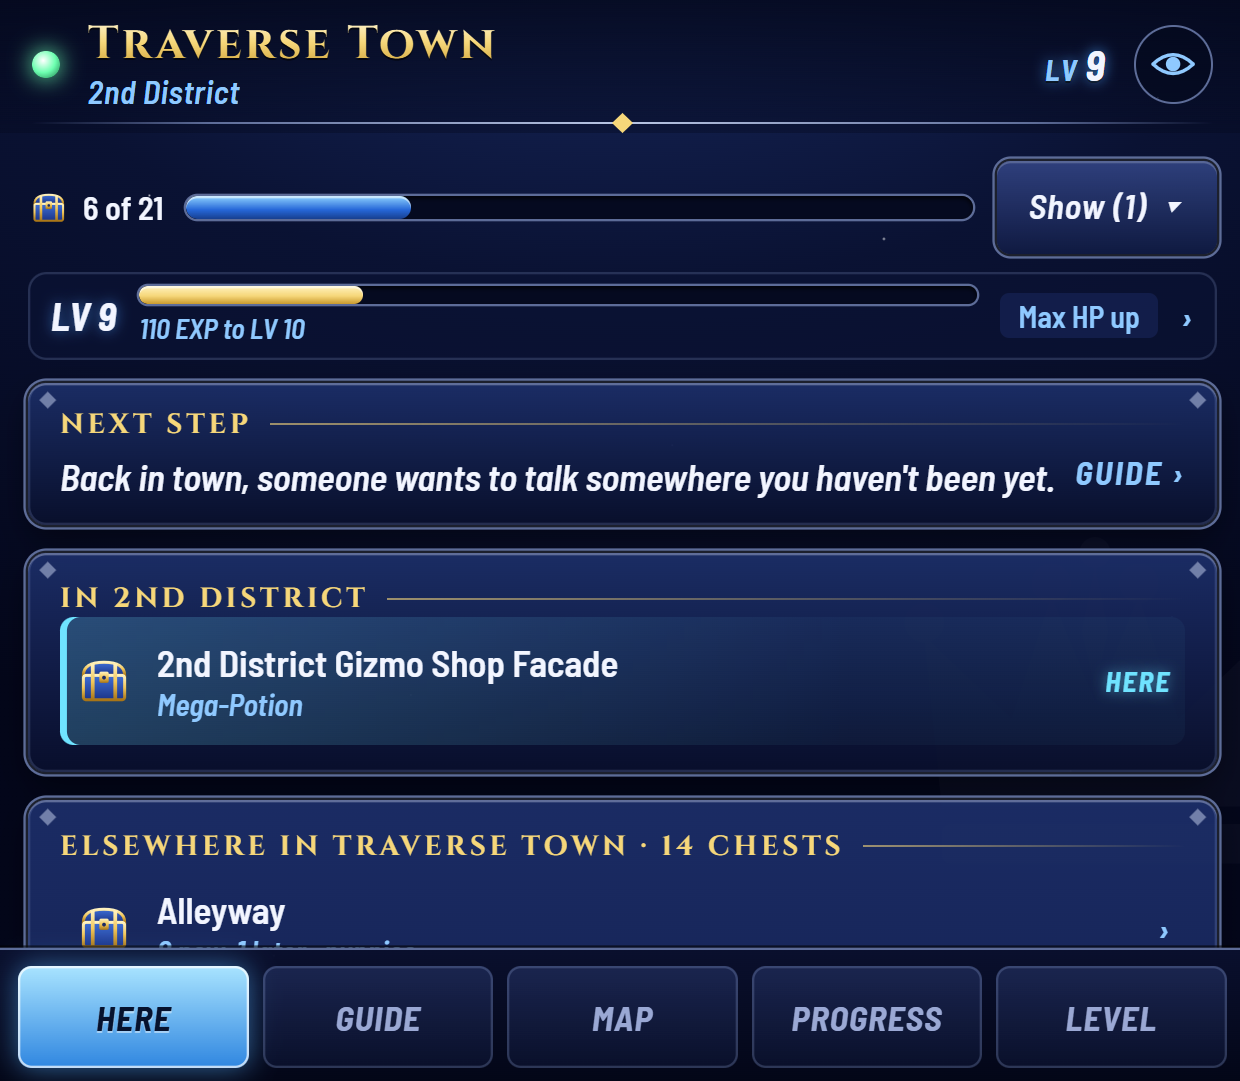
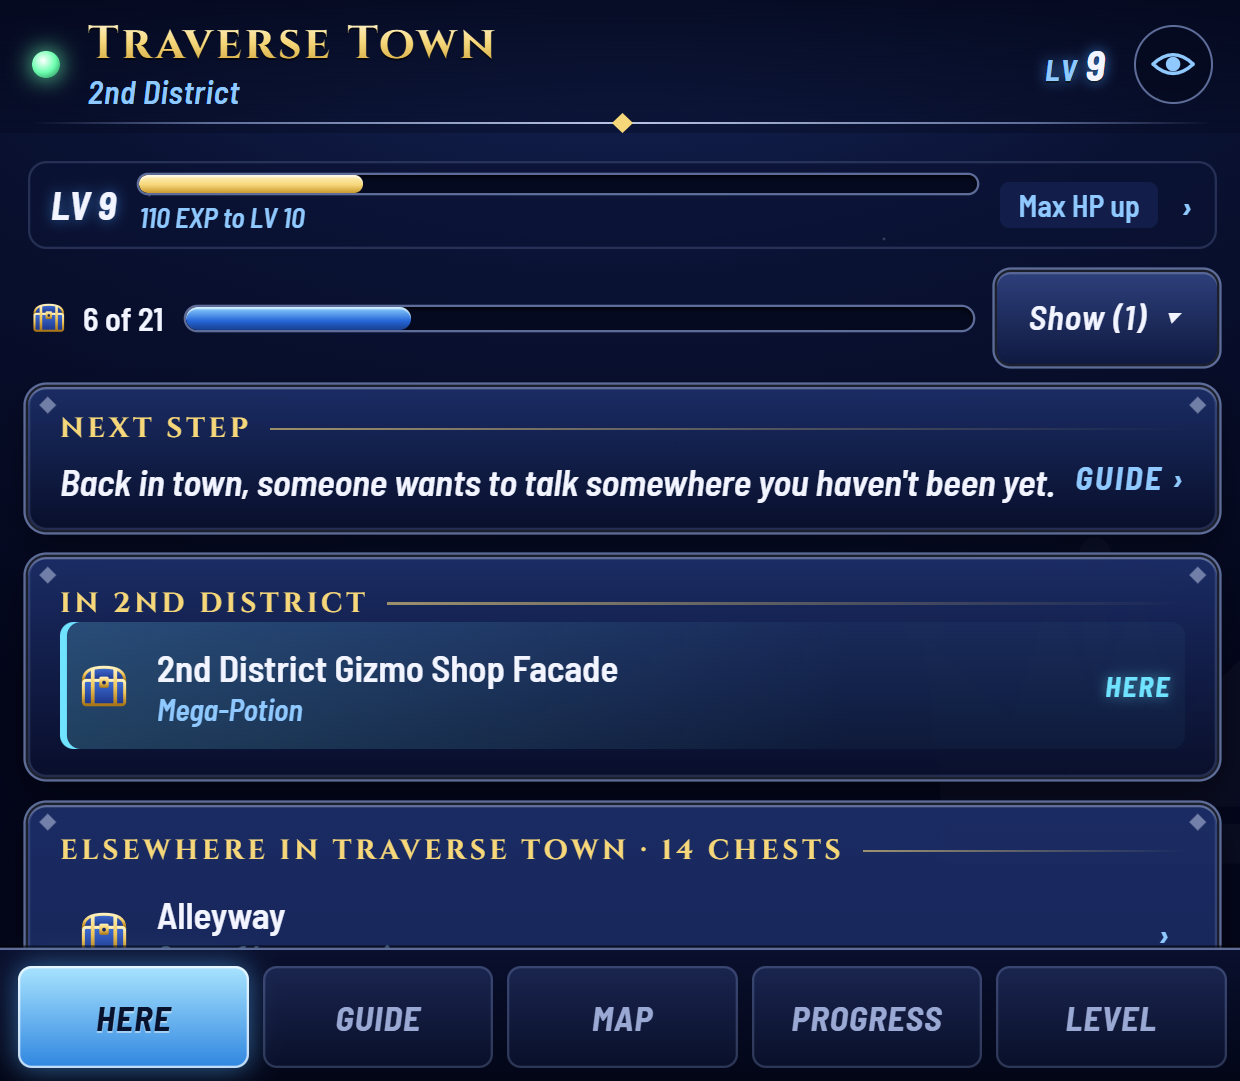
EXP bar first on Here; exact numbers only once the growth curve is certain
The curve has no save byte (the Dive answers set it), so the page now
remembers which curves every EXP reading in this playthrough still fits
and narrows them for good (EXP never drops; lower EXP means a new game).
Until one curve is left, the strip shows the level and next reward with
no EXP numbers instead of a range.

Changed region(s): [[0.0, 0.1221, 1.0, 0.7937], [0.0613, 0.8242, 0.2452, 0.8853], [0.8887, 0.6105, 0.95, 0.6411]]

diff --git a/companion/app.js b/companion/app.js
@@ -210,9 +210,9 @@
     const elsewhere = chests.filter((c) => !c.got && (!n || c.node !== n.id));
     const reportsLeft = sum.reports.filter((r) => r.w === world && !r.got);
     el.innerHTML =
+      expStrip() +
       `<div class="row here-top"><span class="map-count">${icon("ico-chest", "")}<b>${got} of ${total}</b></span>` +
       `<div class="bar grow ${got === total && total ? "done" : ""}"><i style="width:${total ? got / total * 100 : 0}%"></i></div>${toggles()}</div>` +
-      expStrip() +
       (next ? `<div class="card next-mini" id="toGuide"><div class="label">Next step${next.optional ? " · optional" : ""}</div>` +
         `<div class="row"><div class="step-nudge grow">${esc(stepFull(next.key) ? next.title : next.nudge)}</div><span class="tag more">Guide ›</span></div></div>` : "") +
       (n ? `<div class="card"><div class="label">In ${esc(sum.room || L.labelOf(n))}</div>` +
@@ -229,21 +229,18 @@
   }
 
   // The game shows no EXP bar outside the Status menu: level, EXP to the next one, and what it gives.
-  // Early on the growth curve can still be one of several; then the EXP left is a range.
+  // EXP needed depends on the growth curve, which only EXP itself reveals; until it's certain, no numbers.
   function expStrip() {
     const info = L.levelInfo(state, levelPick);
-    if (!info || info.exp == null || info.level >= 100) return "";
-    const curves = info.curve ? [info.curve] : info.curves;
+    if (!info || info.level >= 100) return "";
     const next = info.level + 1;
-    const left = curves.map((c) => info.cum[c][next] - info.exp);
-    const pct = curves.reduce((s, c) => {
-      const lo = info.cum[c][info.level], hi = info.cum[c][next];
-      return s + (hi > lo ? (info.exp - lo) / (hi - lo) : 0);
-    }, 0) / curves.length;
-    const lo = Math.min(...left), hi = Math.max(...left);
+    const known = info.curve && info.exp != null;
+    const lo = known ? info.cum[info.curve][info.level] : 0, hi = known ? info.cum[info.curve][next] : 0;
+    const pct = known && hi > lo ? Math.max(0, Math.min(100, (info.exp - lo) / (hi - lo) * 100)) : 0;
     return `<div class="row here-lv" id="toLevel"><span class="lv-now">LV ${info.level}</span>` +
-      `<div class="grow"><div class="bar exp"><i style="width:${Math.max(0, Math.min(100, pct * 100))}%"></i></div>` +
-      `<div class="sub">${lo === hi ? fmt(lo) : `${fmt(lo)}–${fmt(hi)}`} EXP to LV ${next}</div></div>` +
+      `<div class="grow">${known
+        ? `<div class="bar exp"><i style="width:${pct}%"></i></div><div class="sub">${fmt(hi - info.exp)} EXP to LV ${next}</div>`
+        : `<div class="sub">EXP to LV ${next} shows once your growth is clear, after a few fights.</div>`}</div>` +
       `<span class="rewards">${rewardChips(info, next)}</span><span class="tag more">›</span></div>`;
   }
 
@@ -907,10 +904,12 @@
   }
 
   function rememberSteps() {
-    // The growth curve has no save byte: keep the last one EXP pinned down, for when it's ambiguous again.
+    // The growth curve has no save byte: remember which curves this playthrough's EXP still fits,
+    // so each reading narrows it further (levelInfo drops the memory when EXP goes down: a new game).
     const info = !sum.title && L.levelInfo(state, levelPick);
-    if (info && info.seenCurve && (levelPick.seen !== info.seenCurve || levelPick.seenExp !== info.exp)) {
-      levelPick = { ...levelPick, seen: info.seenCurve, seenExp: info.exp };
+    if (info && info.exp != null && (String(levelPick.fits) !== String(info.curves) || levelPick.fitsExp !== info.exp)) {
+      const { seen, seenExp, ...rest } = levelPick;
+      levelPick = { ...rest, fits: info.curves, fitsExp: info.exp };
       store.set("levelPick", levelPick);
     }
     const before = guideSeen.size;

diff --git a/companion/logic.js b/companion/logic.js
@@ -306,14 +306,20 @@
     });
     // Nothing fits (an odd save, or a read gone wrong): don't rule anything out.
     if (!curves.length) curves = CURVES;
+    // There's no save byte for the curve (the Dive answers set it), so every reading counts: a curve
+    // ruled out earlier in this playthrough stays out. EXP never goes down, so lower EXP means another game.
+    const fits = pick && (pick.fits || (pick.seen && [pick.seen]));
+    const fitsExp = pick && (pick.fits ? pick.fitsExp : pick.seenExp);
+    if (fits && exp != null && exp >= (fitsExp || 0)) {
+      const still = curves.filter((c) => fits.includes(c));
+      if (still.length) curves = still;
+    }
     if (!paths.length) paths = PATHS;
     const kept = state.dive != null ? PATHS[hexToBytes(state.dive)[0]] : null;
     const fromSave = !!kept && paths.includes(kept);
     if (fromSave) paths = [kept];
-    // A remembered curve only counts for the same playthrough: EXP never goes down.
-    const seen = pick && pick.seen && exp != null && exp >= (pick.seenExp || 0) && curves.includes(pick.seen) ? pick.seen : null;
     const choose = (fits, picked) => (fits.length === 1 ? fits[0] : fits.includes(picked) ? picked : null);
-    const curve = choose(curves, seen || (pick && pick.curve));
+    const curve = choose(curves, pick && pick.curve);
     const path = choose(paths, pick && pick.path);
     const stats = Object.fromEntries(LEVELS.stats);
     const rewards = (lv, p) => ({
@@ -322,8 +328,7 @@
     });
     return {
       level, exp, curves, paths, curve, path, cum,
-      autoCurve: exp != null && (curves.length === 1 || !!seen), autoPath: fromSave || (paths.length === 1 && known),
-      seenCurve: curves.length === 1 && exp != null ? curves[0] : null,
+      autoCurve: exp != null && curves.length === 1, autoPath: fromSave || (paths.length === 1 && known),
       toNext: curve && exp != null && level < 100 ? cum[curve][level + 1] - exp : null,
       rewards, name: (code) => LEVELS.names[code],
     };

diff --git a/companion/theme.css b/companion/theme.css
@@ -349,7 +349,7 @@ svg.map .node rect.focusring { fill: none !important; stroke: #fff !important; s
 @keyframes spinin { from { transform: rotate(-120deg) scale(.4); } }
 
 /* ---------- Here: EXP to the next level (the game only shows it in the Status menu) ---------- */
-.here-lv { margin: -2px 0 10px; padding: 6px 10px; gap: 10px; border-radius: var(--radius); cursor: pointer;
+.here-lv { margin: 0 0 10px; padding: 6px 10px; gap: 10px; border-radius: var(--radius); cursor: pointer;
   background: rgba(10,18,52,.6); box-shadow: inset 0 0 0 1px rgba(150,170,220,.2); }
 .here-lv:active { filter: brightness(1.25); }
 .here-lv .bar { margin-top: 0; height: 8px; }
